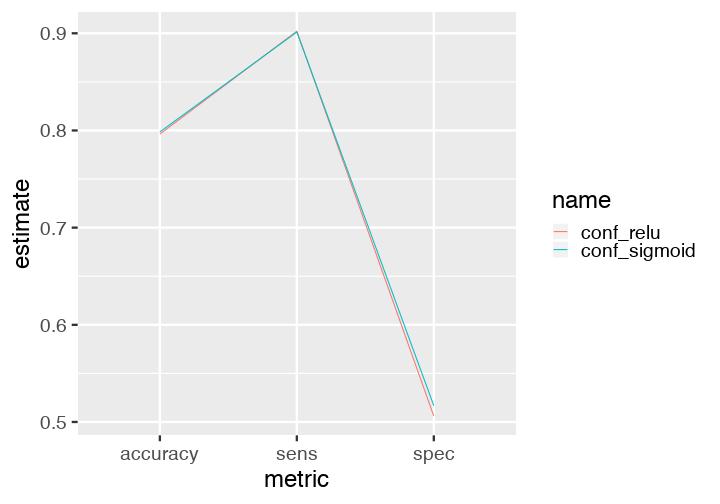
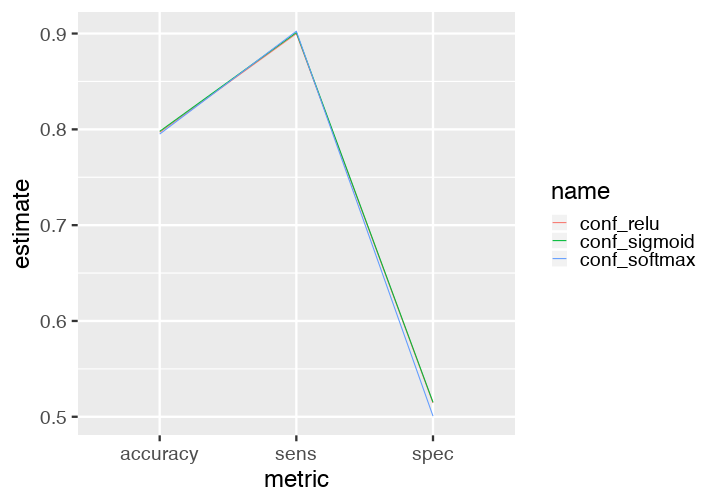
Update gh-pages slides

diff --git a/index.html b/index.html
@@ -61,12 +61,12 @@ class: center, middle, inverse, title-slide
 
 
 
-## Large data science projects
+## Large data science workflows
 
 - Struggles
     1. Long runtimes.
-    2. Many steps.
-    3. Steps are interconnected.
+    2. Many tasks.
+    3. Interconnected tasks.
 
 - Examples
     - Deep learning
@@ -81,7 +81,7 @@ class: center, middle, inverse, title-slide
 
 ---
 
-## Workflows have interconnected steps.
+## Interconnected tasks
 &lt;center&gt;
 &lt;img src = "./images/workflow.png" align="middle" style="border: none; box-shadow: none; text-align: center;"&gt;
 &lt;/center&gt;
@@ -95,7 +95,7 @@ class: center, middle, inverse, title-slide
 
 ---
 
-## ...the downstream steps are **no longer valid**.
+## ...the downstream output is **no longer valid**.
 
 &lt;center&gt;
 &lt;img src = "./images/downstream.png" align="middle" style="border: none; box-shadow: none; text-align: center;"&gt;
@@ -138,7 +138,7 @@ class: center, middle, inverse, title-slide
 
 ---
 
-## What makes `drake` different?
+## What distinguishes `drake`?
 
 &lt;center&gt;
 &lt;img src = "./images/R.png" align="middle" style="border: none; box-shadow: none; text-align: center; height: 200px"&gt;
@@ -169,66 +169,110 @@ class: center, middle, inverse, title-slide
 
 ---
 
-## File structure
+## This project is too big for numbered scripts!
 
-&lt;br&gt;
-&lt;br&gt;
+
+```r
+run_everything.R
+R/
+├── 01-data.R
+├── 02-munge.R
+├── 03-model.R
+├── 04-results.R
+└── 05-plot.R
+data/
+└── customer_churn.csv
+output/
+├── model_relu.h5
+├── model_sigmoid.h5
+├── confusion_matrix.rds
+└── metrics_plot.png
+```
+
+---
+
+## Disadvantages
+
+- The planing and the execution happen at the same time.
+- Cumbersome, ad hoc, jumbled, muddled.
+
+
+```r
+# 02-munge.R
+*library(recipes) # package dependencies scattered across scripts
+
+*# single-use code, difficult to test
+rec &lt;- data %&gt;%
+  training() %&gt;%
+  recipe(Churn ~ .) %&gt;%
+  step_rm(customerID) %&gt;%
+  step_naomit(all_outcomes(), all_predictors()) %&gt;%
+  step_discretize(tenure, options = list(cuts = 6)) %&gt;%
+  step_log(TotalCharges) %&gt;%
+  step_mutate(Churn = ifelse(Churn == "Yes", 1, 0)) %&gt;%
+  step_dummy(all_nominal(), -all_outcomes()) %&gt;%
+  step_center(all_predictors(), -all_outcomes()) %&gt;%
+  step_scale(all_predictors(), -all_outcomes()) %&gt;%
+  prep()
+
+*saveRDS(rec, "recipe.rds") # final output scattered across code
+```
+
+---
+
+## Instead, embrace **functions**!
+
+- Separate the planning from the execution.
+- Clarity: functions are like paragraphs.
+- Reuse: define once, run whenever.
 
 
 ```r
 make.R
 R/
 ├── packages.R
-├── functions.R
+*├── functions.R
 └── plan.R
 data/
 └── customer_churn.csv
+.drake/ # drake's cache
+└──     # output magically appears here
 ```
 
 ---
 
-## packages.R
+## Write function-oriented R scripts.
 
 
 ```r
-library(drake)
-library(keras)
+*# packages.R: all package dependencies
 library(recipes)
-library(rsample)
-library(tidyverse)
-library(yardstick)
+# other packages...
 ```
-
----
-
-## functions.R
 
 
 ```r
+*# functions.R: pure reusable code
 prepare_recipe &lt;- function(data) {
-  # ... 
+  data %&gt;%
+    training() %&gt;%
+    recipe(Churn ~ .) %&gt;%
+    step_rm(customerID) %&gt;%
+    step_naomit(all_outcomes(), all_predictors()) %&gt;%
+    step_discretize(tenure, options = list(cuts = 6)) %&gt;%
+    step_log(TotalCharges) %&gt;%
+    step_mutate(Churn = ifelse(Churn == "Yes", 1, 0)) %&gt;%
+    step_dummy(all_nominal(), -all_outcomes()) %&gt;%
+    step_center(all_predictors(), -all_outcomes()) %&gt;%
+    step_scale(all_predictors(), -all_outcomes()) %&gt;%
+    prep()
 }
-
-define_model &lt;- function(rec, units1, units2, act1, act2, act3) {
-  # ...
-}
-
-train_model &lt;- function(rec, units1, units2, act1, act2, act3) {
-  # ...
-}
-
-confusion_matrix &lt;- function(data, rec, model) {
-  # ...
-}
-
-compare_models &lt;- function(...) {
-  # ...
-}
+# other functions...
 ```
 
 ---
 
-## plan.R
+## Bring the functions together in a drake **plan**.
 
 
 ```r
@@ -237,7 +281,7 @@ activations &lt;- c("relu", "sigmoid")
 plan &lt;- drake_plan(
   data = read_csv(file_in("data/customer_churn.csv"), col_types = cols()) %&gt;%
     initial_split(prop = 0.3),
-  rec = prepare_recipe(data),
+* rec = prepare_recipe(data),
   model = target(
     train_model(rec, act1 = act),
     format = "keras",
@@ -256,7 +300,7 @@ plan &lt;- drake_plan(
 
 ---
 
-## Data frame of workflow steps
+## The plan is a data frame of skippable tasks.
 
 
 ```r
@@ -297,8 +341,10 @@ make(plan)
 ## target rec
 ## target model_relu
 ## target model_sigmoid
+## target model_softmax
 ## target conf_relu
 ## target conf_sigmoid
+## target conf_softmax
 ## target metrics
 ```
 
@@ -315,7 +361,7 @@ readd(metrics) # See also loadd()
 
 ---
 
-## Try another activation function.
+## Add a new model.
 
 
 ```r
@@ -362,9 +408,7 @@ source("R/functions.R")
 *source("R/plan.R") # modified
 
 make(plan)
-## target model_softmax
-## target conf_softmax
-## target metrics
+## All targets are already up to date.
 ```
 
 ---
@@ -429,19 +473,18 @@ build_times(type = "build")
 
 ```r
 drake_history()
-## # A tibble: 10 x 10
-##    target  current built  exists hash  command     seed runtime  prop act1 
-##    &lt;chr&gt;   &lt;lgl&gt;   &lt;chr&gt;  &lt;lgl&gt;  &lt;chr&gt; &lt;chr&gt;      &lt;int&gt;   &lt;dbl&gt; &lt;dbl&gt; &lt;chr&gt;
-##  1 conf_r… TRUE    2019-… TRUE   d5fc… confusio… 4.05e8  0.222   NA   &lt;NA&gt; 
-##  2 conf_s… TRUE    2019-… TRUE   e2b5… confusio… 1.93e9  0.221   NA   &lt;NA&gt; 
-##  3 conf_s… TRUE    2019-… TRUE   24c3… confusio… 1.80e9  0.218   NA   &lt;NA&gt; 
-##  4 data    TRUE    2019-… TRUE   ca84… "read_cs… 1.29e9  0.0370   0.3 &lt;NA&gt; 
-##  5 metrics FALSE   2019-… TRUE   4767… compare_… 1.21e9  0.0230  NA   &lt;NA&gt; 
-##  6 metrics TRUE    2019-… TRUE   e8bf… compare_… 1.21e9  0.0210  NA   &lt;NA&gt; 
-##  7 model_… TRUE    2019-… TRUE   8b34… "train_m… 1.47e9  5.09    NA   relu 
-##  8 model_… TRUE    2019-… TRUE   1cb0… "train_m… 1.26e9  3.19    NA   sigm…
-##  9 model_… TRUE    2019-… TRUE   7317… "train_m… 8.05e8  3.55    NA   soft…
-## 10 rec     TRUE    2019-… TRUE   40e5… prepare_… 6.29e8  0.153   NA   &lt;NA&gt;
+## # A tibble: 9 x 10
+##   target  current built   exists hash  command     seed runtime  prop act1 
+##   &lt;chr&gt;   &lt;lgl&gt;   &lt;chr&gt;   &lt;lgl&gt;  &lt;chr&gt; &lt;chr&gt;      &lt;int&gt;   &lt;dbl&gt; &lt;dbl&gt; &lt;chr&gt;
+## 1 conf_r… TRUE    2019-0… TRUE   f305… confusio… 4.05e8  0.233   NA   &lt;NA&gt; 
+## 2 conf_s… TRUE    2019-0… TRUE   87d6… confusio… 1.93e9  0.248   NA   &lt;NA&gt; 
+## 3 conf_s… TRUE    2019-0… TRUE   31e3… confusio… 1.80e9  0.228   NA   &lt;NA&gt; 
+## 4 data    TRUE    2019-0… TRUE   ca84… "read_cs… 1.29e9  0.0380   0.3 &lt;NA&gt; 
+## 5 metrics TRUE    2019-0… TRUE   6928… compare_… 1.21e9  0.0270  NA   &lt;NA&gt; 
+## 6 model_… TRUE    2019-0… TRUE   e073… "train_m… 1.47e9  4.75    NA   relu 
+## 7 model_… TRUE    2019-0… TRUE   6f35… "train_m… 1.26e9  3.10    NA   sigm…
+## 8 model_… TRUE    2019-0… TRUE   8c7b… "train_m… 8.05e8  3.23    NA   soft…
+## 9 rec     TRUE    2019-0… TRUE   40e5… prepare_… 6.29e8  0.16    NA   &lt;NA&gt;
 ```
 
 ---
@@ -466,7 +509,7 @@ make(plan, recover = TRUE)
 
 proc.time() - start
 ##    user  system elapsed 
-##   0.091   0.037   0.271
+##   0.103   0.040   0.286
 ```
 
 - Details + how to rename a target: &lt;https://ropenscilabs.github.io/drake-manual/walkthrough.html#automated-recovery-and-renaming&gt;
